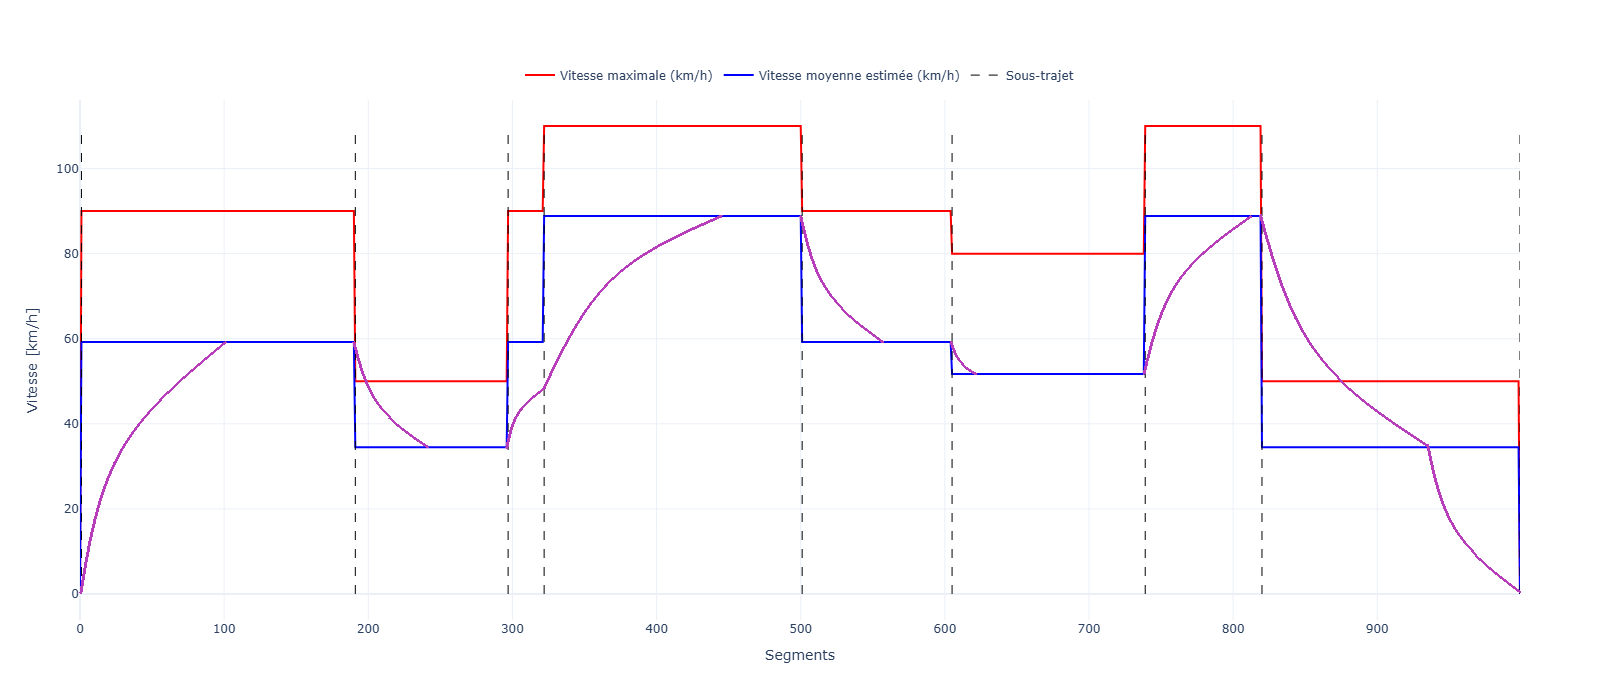
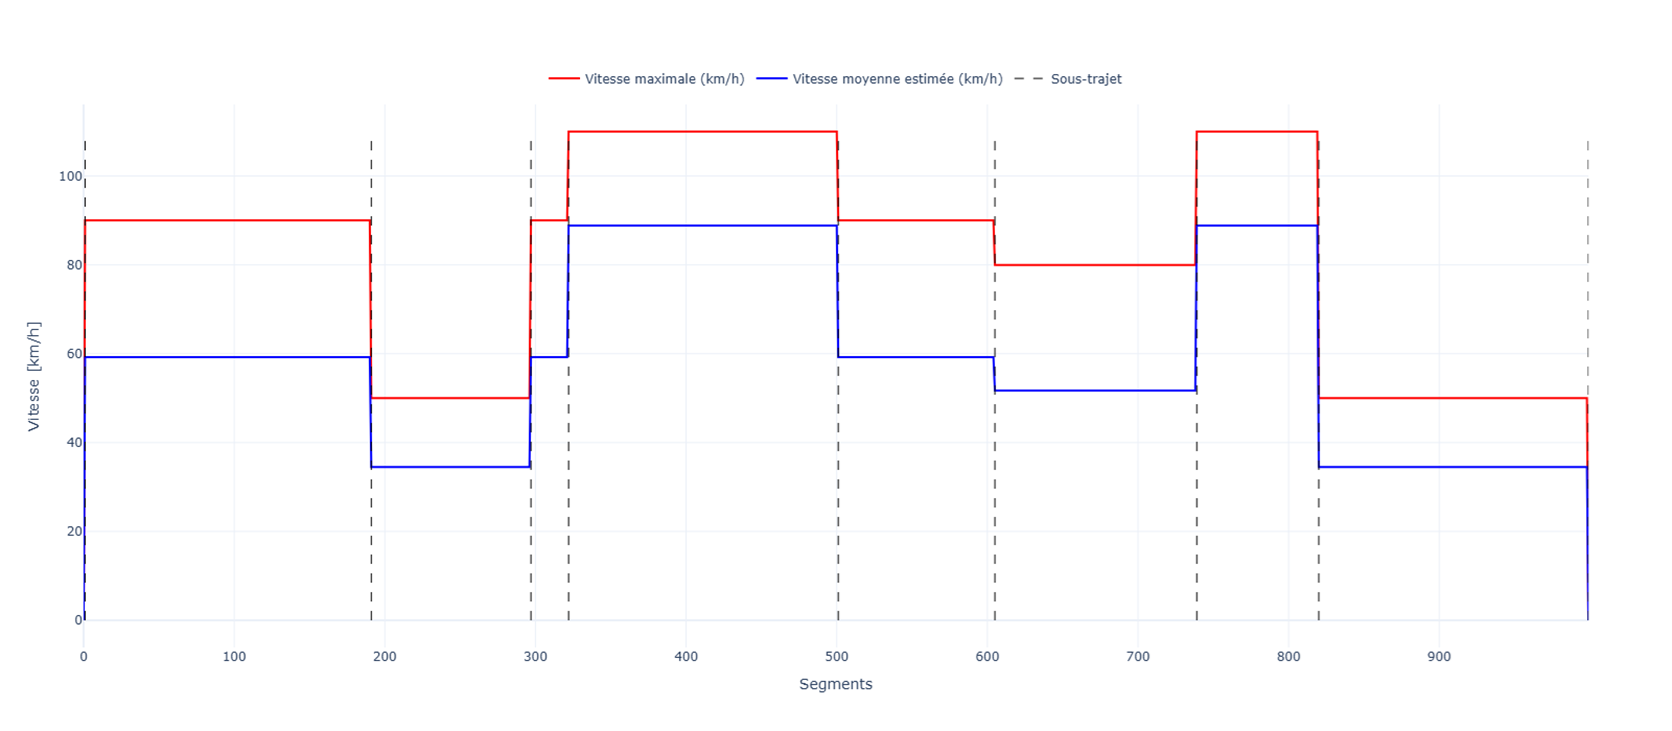
better explanation transpoze

diff --git a/_projects/3_TranspoZé.md b/_projects/3_TranspoZé.md
@@ -52,34 +52,48 @@ $$\frac{\delta E}{\delta s}$$ est la consommation d'énergie par unité de dista
 
 ## Données d’entrée
 
-Le modèle repose sur des **données de trajet détaillées** récupérées de la base française [BD Topo](https://geoservices.ign.fr/bdtopo), comprenant :  
+Le modèle repose sur des **données de trajet détaillées** qui contiennent les points de latitude et de longitude du trajet original enrichies par la base française [BD Topo](https://geoservices.ign.fr/bdtopo). Ces points sont enrichis avec les informations suivantes :  
 
 - le profil d’altitude,  
 - les vitesses maximales par segment.  
 
-L’altitude permet d’estimer la **densité de l’air**, tandis que les **vitesses maximales** sont **ajustées** pour estimer un **profil de vitesses** simulant une conduite réaliste.
+L’altitude permet d’estimer la **densité de l’air** et la **pente** de la route, tandis que les **vitesses maximales** sont "ajustées" pour estimer un **profil de vitesses** simulant une conduite réaliste.
+
+À la fin, une liste de points de latitude, longitude, altitude et vitesse maximale seront entrés dans le modèle physique pour estimer la consommation d'énergie entre chaque deux points consécutifs.
+
+Le trajet peut être visualisé sur la carte de la [Figure 2](#figure-2-carte-du-trajet) et le profil de vitesses maximales ainsi que les altitudes récupérées de la base BD Topo sont montrés sur la [Figure 3](#figure-3-vitesses-et-altitudes).
 
 <div class="row">
   <div class="col-sm mt-3 mt-md-0">
     {% include figure.html path="assets/img/transpoze_map.png" title="Profil de route et altitudes" class="img-fluid rounded z-depth-1" %}
   </div>
+</div>
+<div class="caption" id="figure-2-carte-du-trajet">
+    Figure 2 : Exemple d'une carte contenant le trajet défini par l'utilisateur.
+</div>
+
+<div class="row">
+  <div class="col-sm mt-3 mt-md-0">
+    {% include figure.html path="assets/img/transpoze_altitude.png" title="Profil de route et altitudes" class="img-fluid rounded z-depth-1" %}
+  </div>
   <div class="col-sm mt-3 mt-md-0">
     {% include figure.html path="assets/img/transpoze_speed.png" title="Profil de vitesse simulé" class="img-fluid rounded z-depth-1" %}
   </div>
 </div>
-<div class="caption">
-    Figure 2 : Exemples de profils d’entrée utilisés dans les simulations.
+<div class="caption" id="figure-3-vitesses-et-altitudes">
+    Figure 3 : Exemples des vitesses maximales courbe en rouge seulement et des altitudes récupérées de la base BD Topo pour un des trajets de la Figure 2.
 </div>
+
 
 ---
 
 ## Estimation de la Vitesse
 
-Le profil de vitesse réel est estimé à partir des **vitesses maximales réglementaires** (`V_max`) de chaque segment routier, en appliquant un **coefficient d'ajustement** $$\alpha$$ dépendant du type de route et des styles de conduite de la région en question (la France).
+Le profil de vitesse réel est estimé à partir des **vitesses maximales réglementaires** ($$V_{max}$$) de chaque segment routier, en appliquant un **coefficient d'ajustement** $$\alpha$$ dépendant du type de route et des styles de conduite de la région en question (la France).
 
 ### Modèle polynomial d'ajustement
 
-Le coefficient $$\alpha$$ est calculé par un modèle polynomial calibré empiriquement :
+Comme première approche, le coefficient $$\alpha$$ est calculé par un modèle polynomial calibré empiriquement sur des données réelles mesurées sur la route :
 
 $$
 \alpha(V_{\text{max}}) = 9.27 \times 10^{-6} V_{\text{max}}^4 - 7.37 \times 10^{-4} V_{\text{max}}^3 + 0.0225 V_{\text{max}}^2 - 0.314 V_{\text{max}} + 2.34
@@ -87,13 +101,20 @@ $$
 
 avec $$\alpha$$ plafonné à 0.98 pour garantir que la vitesse réelle reste inférieure à la limite réglementaire.
 
-La vitesse réelle "instantanée" est alors calculée en tout point $$s$$ de la route en fonction du profil de vitesse maximale récupéré par la base BD Topo:
+La vitesse réelle "instantanée" est alors calculée en tout point $$s$$ de la route en fonction du profil de vitesse maximale récupéré par la base BD Topo ([Figure 4](#figure-4-coefficient-ajustement)):
 
 $$
 v_{\text{réelle}}(s) = \alpha \times V_{\text{max}}(s)
 $$
 
-<!-- ESPACE RÉSERVÉ POUR IMAGE DU PROFIL DE VITESSE -->
+<div class="row">
+  <div class="col-sm mt-3 mt-md-0">
+    {% include figure.html path="assets/img/transpoze_alpha.png" title="Détermination du coefficient d'ajustement" class="img-fluid rounded z-depth-1" %}
+  </div>
+</div>
+<div class="caption" id="figure-4-coefficient-ajustement">
+    Figure 4 : Détermination du coefficient d'ajustement $$\alpha$$.
+</div>
 
 ### Contraintes d'accélération
 
@@ -101,11 +122,22 @@ L'accélération maximale est limitée par le minimum entre :
 - La **capacité moteur** : $$a_{\text{moteur}} = \frac{1000 P_{\text{moteur}} \eta_{\text{mot}}}{V_{\text{max}} m}$$
 - Le **frottement statique** : $$a_{\text{friction}} = g \mu_s \cos(\theta)$$
 
-où $$P_moteur$$ est la puissance du moteur (kW), $$\eta_{mot}$$ l'efficacité de transmission du moteur, et $$\mu_s ≈ 0.9$$ le coefficient de frottement statique.
+où $$P_{\text{moteur}}$$ est la puissance du moteur (kW), $$\eta_{\text{mot}}$$ l'efficacité de transmission du moteur, et $$\mu_s ≈ 0.9$$ le coefficient de frottement statique.
+
+La [Figure 5](#figure-5-profil-vitesse-reelle) montre le résultat final du profil de vitesse réelle.
+
+
+<div class="row">
+  <div class="col-sm mt-3 mt-md-0">
+    {% include figure.html path="assets/img/transpoze_final_speed.png" title="Détermination du profil de vitesse réelle $$v_{\text{réelle}}(s)$$ a partir du profil de vitesse maximale $$V_{\text{max}}(s)$$ et du coefficient d'ajustement $$\alpha$$." class="img-fluid rounded z-depth-1" %}
+  </div>
+</div>
+<div class="caption" id="figure-5-profil-vitesse-reelle">
+    Figure 5 : Détermination du profil de vitesse réelle $$v_{\text{réelle}}(s)$$ à partir du profil de vitesse maximale $$V_{\text{max}}(s)$$ et du coefficient d'ajustement $$\alpha$$.
+</div>
+
 
 ---
-
-<!-- ESPACE RÉSERVÉ POUR IMAGE DU PROFIL DE VITESSE -->
 
 ## Propagation des Incertitudes
 
@@ -139,7 +171,7 @@ Pour l'équation énergétique complète, les principales dérivées partielles 
 
 - **Masse** : $$\partial E/\partial m = (g sin(θ) + g μ_d cos(θ)) Δs$$
 - **Inclinaison** : $$\partial E/\partial θ = m g (cos(θ) - μ_d sin(θ)) Δs$$
-- **Vitesse** : $$\partial E/\partial v = (ρ_ar C_d A v - P_elim/v²) Δs$$
+- **Vitesse** : $$\partial E/\partial v = (ρ_{ar} C_d A v - P_{elim}/v²) Δs$$
 
 L'incertitude totale $$\sigma_E$$ sur l'énergie consommée s'exprime en **joules** ou **kWh**, permettant de définir des **marges d'erreur** pour chaque simulation.
 
@@ -157,17 +189,19 @@ $$
 \text{IC}_{95\%} = \mu \pm 1.96 \sigma
 $$
 
-Cela signifie qu'il y a **95% de chances** que la consommation réelle se situe dans cet intervalle.
+Cela signifie qu'il y a **95 % de chances** que la consommation réelle se situe dans cet intervalle.
 
 ### Visualisation du TCL
 
+La [Figure 6](#figure-6-theoreme-central-limite) illustre ce principe à travers une simulation.
+
 <div class="row">
   <div class="col-sm mt-3 mt-md-0">
-    {% include figure.html path="assets/img/clt_simulation_edf.gif" title="Simulation du Théorème Central Limite" class="img-fluid rounded z-depth-1" %}
+    {% include figure.html path="assets/img/transpoze_clt.gif" title="Simulation du Théorème Central Limite" class="img-fluid rounded z-depth-1" %}
   </div>
 </div>
-<div class="caption">
-    Figure 3 : Illustration du Théorème Central Limite. La somme de nombreuses mesures indépendantes converge vers une distribution gaussienne.
+<div class="caption" id="figure-6-theoreme-central-limite">
+    Figure 6 : Illustration du Théorème Central Limite. La somme de nombreuses mesures indépendantes converge vers une distribution gaussienne.
 </div>
 
 Cette approche probabiliste renforce la **robustesse** du modèle et permet de fournir des **estimations quantifiées** avec leurs marges d'incertitude.
@@ -183,6 +217,23 @@ Une accélération douce et un maintien de vitesse stable permettent de réduire
 
 Les routes présentant des pentes supérieures à **5 %** entraînent une hausse exponentielle de la demande énergétique, confirmant le rôle majeur du relief dans les bilans carbone des transports.
 
+Ci-dessous, la [Figure 7](#figure-7-dashboard-resultats) présente le dashboard de visualisation des résultats qui permet de comparer les différentes pertes énergétiques (accélération, vent, frottement, etc.) sur un trajet donné, ainsi que l'incertitude finale sur la consommation totale. La [Figure 8](#figure-8-analyse-consommation) montre une analyse détaillée de la consommation énergétique selon différents paramètres.
+
+<div class="row">
+  <div class="col-sm mt-3 mt-md-0">
+    {% include figure.html 
+       path="assets/img/transpoze_dashboard.png" 
+       title="Dashboard de visualisation des résultats" 
+       class="img-fluid rounded z-depth-1" 
+    %}
+  </div>
+</div>
+<div class="caption" id="figure-7-dashboard-resultats">
+    Figure 7 : Dashboard de visualisation des résultats condensés.
+</div>
+
+
+
 <div class="row">
   <div class="col-sm mt-3 mt-md-0">
     {% include figure.html 
@@ -192,8 +243,8 @@ Les routes présentant des pentes supérieures à **5 %** entraînent une hausse
     %}
   </div>
 </div>
-<div class="caption">
-    Figure 4 : Analyse de la consommation énergétique selon différents paramètres.
+<div class="caption" id="figure-8-analyse-consommation">
+    Figure 8 : Analyse de la consommation énergétique selon différents paramètres.
 </div>
 
 
